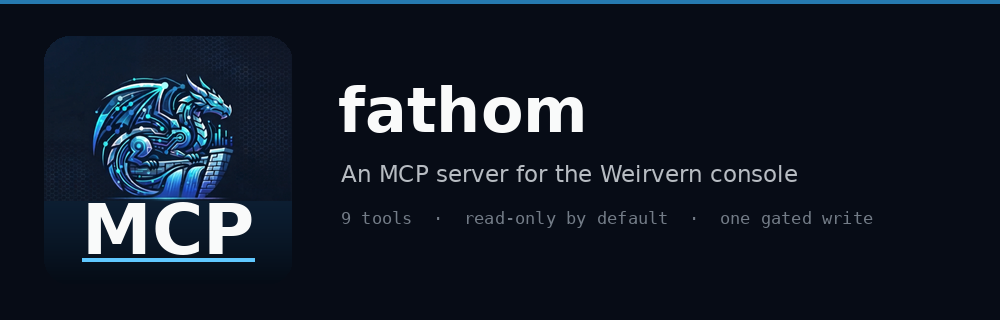
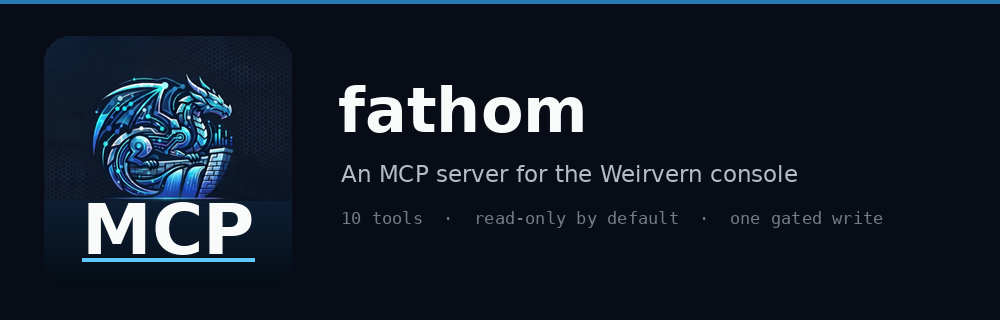
Add list_ripples, the correlation the detectors already did
/api/ripples is the ripple evidence layer: a statistically significant change in one channel for one
host, measured against that host's own trailing history, grouped into ripples with the evidence beneath
them. That answers a question no existing tool could. list_anomalies gives individual decisions and
get_host gives one host; neither says "these findings are one incident, and here is what they have in
common".

THE FAILURE SHAPE IS THE POINT. /api/ripples answers a failed evidence read with 200, available:false
and a reason, rather than raising like every other route. A tool that printed "no ripples" for that
would report a broken query as a quiet network, which is the defect class this project keeps finding.
So an unreadable evidence set gets its own sentence, ending with the console's reason, and says in
words that it is not a claim the network was idle.

Proven, not assumed:
  - check_tools.py: 10 defined, 10 registered (the new tool sits above the entry point)
  - smoke_tools.py: all 10 answered against the stub, plus a separate check that hours=999, where the
    stub answers available:false, produces "could not be read" and NOT "no ripple formed"
  - live_check.py: all 8 calls answered against the real console, list_ripples returning 10 real
    ripples from live data

The threat-hunt skill now starts at step 0 with list_ripples, because a tool the skill never calls is
the propose_block defect again: present, correct, and never exercised.
[…]

Changed region(s): [[0.465, 0.6562, 0.682, 0.7188], [0.713, 0.6562, 0.899, 0.7188], [0.341, 0.6562, 0.434, 0.7188]]

diff --git a/server.py b/server.py
@@ -398,6 +398,78 @@ def propose_block(host: str, reason: str, evidence: str = "", ttl_minutes: int =
     )
 
 
+@mcp.tool()
+def list_ripples(hours: int = 24, limit: int = 10) -> str:
+    """Show correlated findings: what grouped into an incident, and the evidence under it.
+
+    A ripple is several pieces of evidence that line up in one time window on one host, each
+    measured against that host's own trailing history with an empirical p-value. START HERE
+    rather than from the raw alert list: the detectors have already done the correlation, and
+    re-deriving it from individual decisions wastes the context and tends to miss the grouping.
+
+    A low combined_p is the strength of the group, not the severity of the traffic. The
+    explanation says what changed and in which direction.
+
+    Args:
+        hours: how far back to look, 1 to 168. Grouping windows are short, so 24 is usually
+            enough and a week is rarely useful.
+        limit: how many ripples to return, newest first.
+
+    Returns:
+        The ripples with their host, score, combined p-value, channels and explanation, each
+        followed by its strongest evidence. When the evidence cannot be read it says so in
+        those words: that is a different answer from "no ripple formed", and treating the two
+        as the same is how a broken query gets reported as a quiet network.
+    """
+    try:
+        payload = client.ripples(hours=hours)
+    except client.WeirvernError as exc:
+        return _fail(exc)
+
+    if not isinstance(payload, dict):
+        return _summary(payload)
+    if not payload.get("available", True):
+        # NOT "no ripples". The read failed, and the operator needs that sentence instead.
+        reason = str(payload.get("reason") or "").strip()
+        return (
+            "The ripple evidence could not be read, so this is NOT a statement that the "
+            f"network was quiet. {reason}"
+        ).strip()
+
+    found = payload.get("ripples") or []
+    window = payload.get("window_hours", hours)
+    if not found:
+        return (
+            f"No ripple formed in the last {window}h. A ripple needs several pieces of "
+            "evidence lining up on one host in one window, so a quiet result here is not a "
+            "claim that nothing happened: check list_anomalies or top_talkers before "
+            "concluding a host was idle."
+        )
+
+    lines = [f"Ripples in the last {window}h, newest first ({len(found)} found):"]
+    for ripple in found[: max(1, limit)]:
+        channels = ", ".join(ripple.get("channels") or [])
+        lines.append("")
+        lines.append(
+            f"  {ripple.get('host') or '?'} at {ripple.get('window_start') or '?'} "
+            f"score {ripple.get('score')} p={ripple.get('combined_p')} [{channels}]"
+        )
+        if ripple.get("explanation"):
+            lines.append(f"    {ripple['explanation']}")
+        for item in (ripple.get("evidence") or [])[:3]:
+            pieces = [str(item.get("channel") or "?")]
+            if item.get("scale"):
+                pieces.append(f"at {item['scale']}")
+            if item.get("direction"):
+                pieces.append(str(item["direction"]))
+            if item.get("pvalue") is not None:
+                pieces.append(f"p={item['pvalue']}")
+            if item.get("value") is not None and item.get("baseline_median") is not None:
+                pieces.append(f"{item['value']} vs baseline {item['baseline_median']}")
+            lines.append("      - " + ", ".join(pieces))
+    return "\n".join(lines)
+
+
 # THE ENTRY POINT GOES LAST, and this is not style. `mcp.run()` blocks forever serving stdio, so any
 # `@mcp.tool()` written after it never executes and its tool is never registered. That is exactly what
 # happened to `propose_block`: the file served 8 tools and silently omitted the 9th.

diff --git a/scripts/stub_console.py b/scripts/stub_console.py
@@ -124,6 +124,78 @@ AUDIT = {
 
 PROPOSALS = {"proposals": [], "total": 0}
 
+# A ripple as weirvern/models/ripple_evidence.overview returns it: a group of evidence for one
+# host in one window, each piece carrying its own scale, p-value and the baseline it beat.
+RIPPLES = {
+    "available": True,
+    "reason": "",
+    "window_hours": 24,
+    "model_version": "ripple-phase1",
+    "count": 1,
+    "ripples": [
+        {
+            "host": HOST,
+            "window_start": WINDOW,
+            "window_end": "2026-11-19T10:30:00",
+            "score": 0.87,
+            "combined_p": 0.00042,
+            "channels": ["flow_bytes", "dns_entropy"],
+            "explanation": (
+                "outbound bytes fell to a twentieth of this host's baseline while DNS query "
+                "entropy rose, in the same window"
+            ),
+            "evidence": [
+                {
+                    "channel": "flow_bytes",
+                    "family": "volume",
+                    "scale": "1h",
+                    "model_id": "baseline",
+                    "model_version": "1",
+                    "score": 0.91,
+                    "pvalue": 0.003,
+                    "freshness_s": 42.0,
+                    "present": True,
+                    "host": HOST,
+                    "observed_at": WINDOW,
+                    "value": 812.0,
+                    "baseline_median": 16800.0,
+                    "sample_count": 167,
+                    "coverage": 0.98,
+                    "direction": "down",
+                },
+                {
+                    "channel": "dns_entropy",
+                    "family": "shape",
+                    "scale": "1h",
+                    "model_id": "baseline",
+                    "model_version": "1",
+                    "score": 0.74,
+                    "pvalue": 0.012,
+                    "freshness_s": 42.0,
+                    "present": True,
+                    "host": HOST,
+                    "observed_at": WINDOW,
+                    "value": 3.9,
+                    "baseline_median": 2.1,
+                    "sample_count": 167,
+                    "coverage": 0.98,
+                    "direction": "up",
+                },
+            ],
+        }
+    ],
+}
+
+# The console answers a failed evidence read with 200 and available:false, so the stub can too.
+RIPPLES_UNAVAILABLE = {
+    "available": False,
+    "reason": "could not read the ripple evidence: OperationalError: clickhouse unavailable",
+    "window_hours": 24,
+    "model_version": "ripple-phase1",
+    "count": 0,
+    "ripples": [],
+}
+
 
 def _created_proposal(body: dict) -> dict:
     """The shape the console returns from POST /api/proposals.
@@ -166,7 +238,17 @@ class Handler(BaseHTTPRequestHandler):
         self.wfile.write(body)
 
     def do_GET(self) -> None:  # noqa: N802
-        path = self.path.split("?", 1)[0]
+        path, _, query = self.path.partition("?")
+        # The unavailable branch is reachable on purpose: hours=999 asks the stub for the shape
+        # the console returns when the evidence cannot be read, so a check can prove the tool
+        # says "could not read" instead of "none formed".
+        if path == "/api/ripples":
+            hours = ""
+            for pair in query.split("&"):
+                if pair.startswith("hours="):
+                    hours = pair.split("=", 1)[1]
+            self._send(RIPPLES_UNAVAILABLE if hours in ("999", "") else RIPPLES)
+            return
         routes = {
             "/api/healthz": {"ok": True},
             "/api/session": {"accounts": True, "role": "admin", "via": "token"},

diff --git a/scripts/smoke_tools.py b/scripts/smoke_tools.py
@@ -43,6 +43,7 @@ CALLS: dict[str, dict] = {
     "top_talkers": {"hours": 24, "limit": 5},
     "dns_names": {"hours": 24, "limit": 5},
     "alert_audit": {"hours": 24, "limit": 5},
+    "list_ripples": {"hours": 24, "limit": 5},
     "propose_block": {
         "host": "192.0.2.10",
         "reason": "steady beacon at a fixed interval with near zero payload",
@@ -117,8 +118,28 @@ async def run(base: str) -> int:
                     print(f"  FAIL  {name}: {text[:100]}")
                 else:
                     print(f"  ok    {name}: {text.splitlines()[0][:88]}")
-
-    # Both directions: every tool called, and every served tool called.
+            # THE FAILURE SHAPE IS CHECKED SEPARATELY, and INSIDE the session. It sat outside the
+            # `async with` at first and every call on the closed session raised a ClosedResourceError
+            # whose string is empty, so the check reported failure with no reason at all.
+            # A formatting bug here is the defect class this project keeps finding: a read that failed
+            # must not come back looking like a quiet network. The stub answers available:false at 999.
+            try:
+                blind = await session.call_tool("list_ripples", {"hours": 999})
+                blind_text = " ".join(
+                    getattr(c, "text", "") for c in (blind.content or [])
+                ).strip()
+                says_failed = "could not be read" in blind_text
+                says_quiet = "no ripple formed" in blind_text.lower()
+                if says_failed and not says_quiet:
+                    print("  ok    list_ripples: an unreadable evidence set is not reported as quiet")
+                else:
+                    failures.append(
+                        f"list_ripples failure shape: failed={says_failed} quiet={says_quiet}"
+                    )
+                    print(f"  FAIL  list_ripples failure shape: {blind_text[:100]}")
+            except Exception as exc:  # noqa: BLE001
+                failures.append(f"list_ripples failure shape: {exc}")
+                print(f"  FAIL  list_ripples failure shape: {exc}")
     uncalled = [t for t in served if t not in CALLS]
     for name in uncalled:
         failures.append(f"{name}: served but never called by this test")

diff --git a/client.py b/client.py
@@ -375,6 +375,15 @@ def dns(token=None, **filters):
     return get("/api/dns", params=filters, token=token)
 
 
+def ripples(hours=24, token=None):
+    """Ripple evidence: correlated findings, with the evidence they were grouped from.
+
+    Answers 200 with `available: false` and a reason when the evidence cannot be read,
+    rather than raising, so the caller has to tell "could not read" apart from "none formed".
+    """
+    return get("/api/ripples", params={"hours": hours}, token=token)
+
+
 def episodes(token=None, **filters):
     """Correlated activity episodes."""
     return get("/api/episodes", params=filters, token=token)

diff --git a/scripts/live_check.py b/scripts/live_check.py
@@ -54,6 +54,7 @@ PROBE_REASON = (
 CALLS: list[tuple[str, dict, bool]] = [
     ("propose_block", {"host": PROBE_HOST, "reason": PROBE_REASON,
                        "evidence": "live_check.py", "ttl_minutes": 15}, True),
+    ("list_ripples", {"hours": 24, "limit": 5}, False),
     ("alert_audit", {"hours": 24, "limit": 5}, False),
     ("list_anomalies", {"hours": 24, "limit": 5}, False),
     ("top_talkers", {"hours": 24, "limit": 5}, False),

diff --git a/README.md b/README.md
@@ -7,10 +7,10 @@
 # fathom
 
 An [MCP](https://modelcontextprotocol.io) server that puts the Weirvern console in
-front of a model as nine callable tools, so an investigation happens inside the
+front of a model as ten callable tools, so an investigation happens inside the
 agent loop instead of in a terminal someone is copying output out of.
 
-Nine tools. Eight read. One writes, and it files a proposal rather than a block.
+Ten tools. Nine read. One writes, and it files a proposal rather than a block.
 
 ## Why it exists
 
@@ -27,6 +27,7 @@ describe what the answer will be.
 
 | Tool | What it answers |
 |---|---|
+| `list_ripples` | What grouped into one incident, with the evidence underneath it |
 | `list_anomalies` | What did the detectors flag recently, highest score first |
 | `hunt_flows` | Flows for one host, one port or one protocol |
 | `get_host` | What is known about a host: name, volume, peers, ports, timeline |
@@ -72,7 +73,7 @@ deployment's address is environment specific and does not belong in a repository
 
 In the console: **Settings → Tokens → New token**. Choose the role:
 
-- **readonly** (the console's `viewer` role) for the eight read tools
+- **readonly** (the console's `viewer` role) for the nine read tools
 - **admin** if you want `propose_block` to file anything
 
 The token is shown once. Save it to a file only you can read:
@@ -166,7 +167,7 @@ project.
 ## Layout
 
 ```
-server.py                  the MCP server: nine tools, stderr logging only
+server.py                  the MCP server: ten tools, stderr logging only
 client.py                  the console API client, one credential path
 scripts/check_tools.py     registration guard, no dependencies
 scripts/smoke_tools.py     every tool against a stub console

diff --git a/.claude/skills/threat-hunt/SKILL.md b/.claude/skills/threat-hunt/SKILL.md
@@ -24,8 +24,17 @@ That is `top_talkers` and a browse, not a hunt.
 
 ## Procedure
 
+0. Start with the correlation the detectors already did. Call `list_ripples(hours=24)`.
+   A ripple is several pieces of evidence on one host in one window, each measured against that
+   host's own trailing history, with a combined p-value and a plain-language explanation. It
+   answers "what looks like ONE incident" rather than "what fired once".
+   Done when you know which hosts have a grouped story, or that none did. If the tool says the
+   evidence could not be read, say that and stop: it is not a quiet network, and treating it as
+   one is the mistake this tool exists to prevent.
+
 1. Establish what fired. Call `list_anomalies(hours=24)`.
-   Done when you have the host, the score, and which models contributed to it.
+   Done when you have the host, the score, and which models contributed to it. If step 0 found a
+   ripple for a host, start the rest of this procedure with THAT host.
 2. Read what the alerting already decided. Call `alert_audit(hours=24)`.
    Done when you know whether this finding was reviewed and what the disposition was. A
    finding already adjudicated as benign is a different conversation from a new one.
